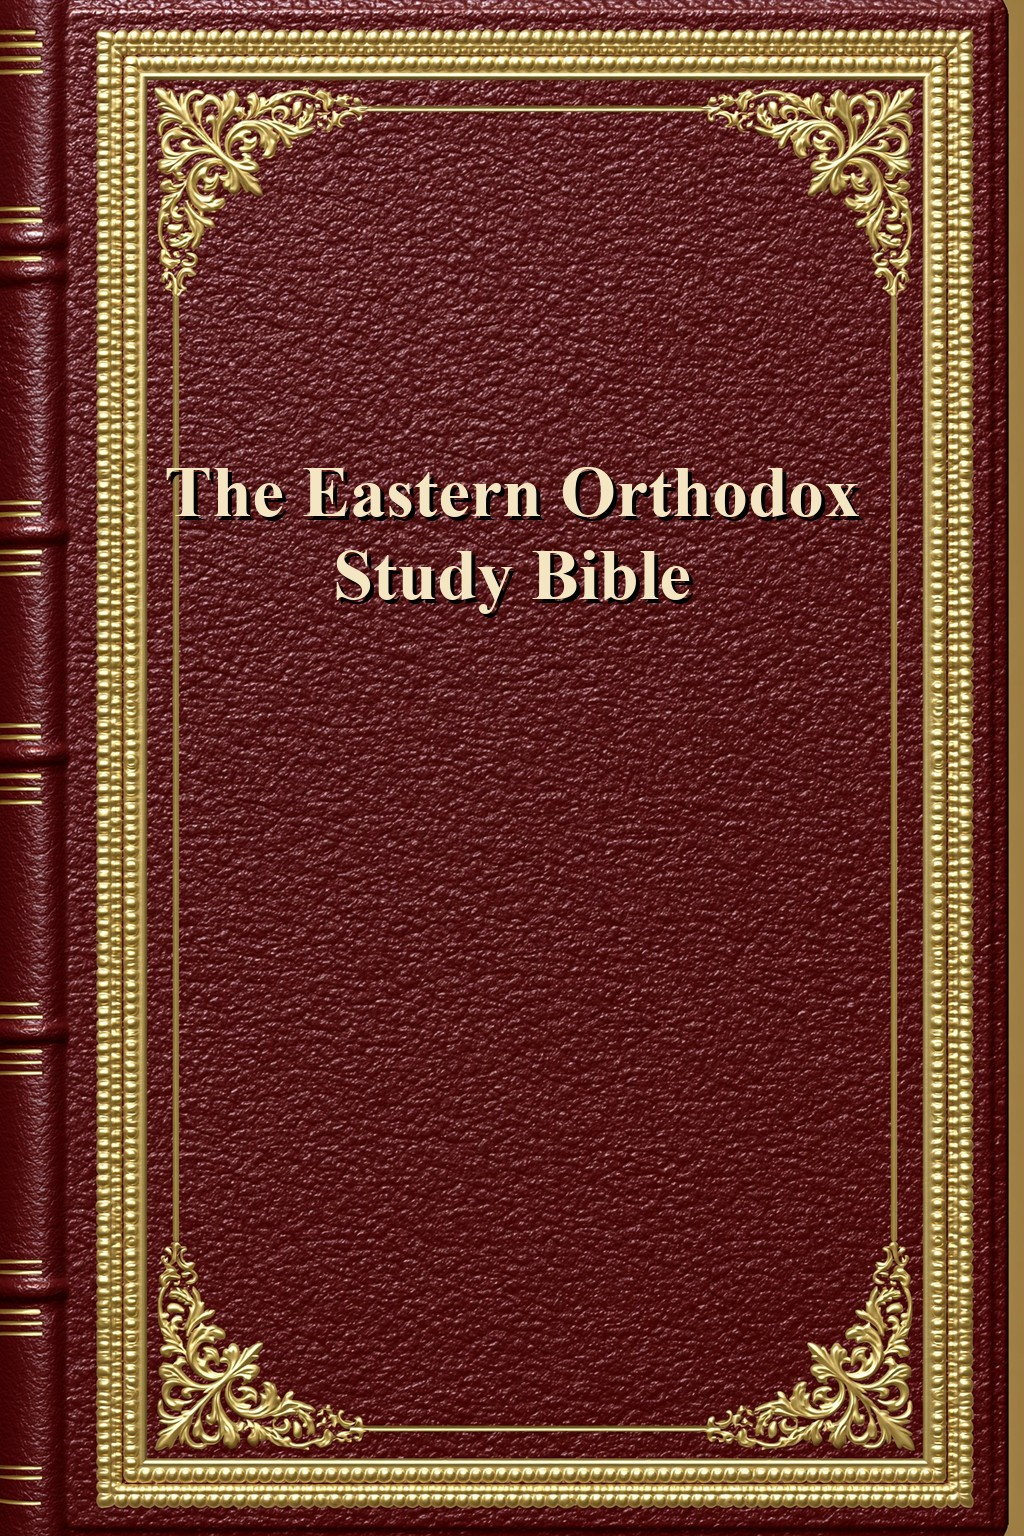
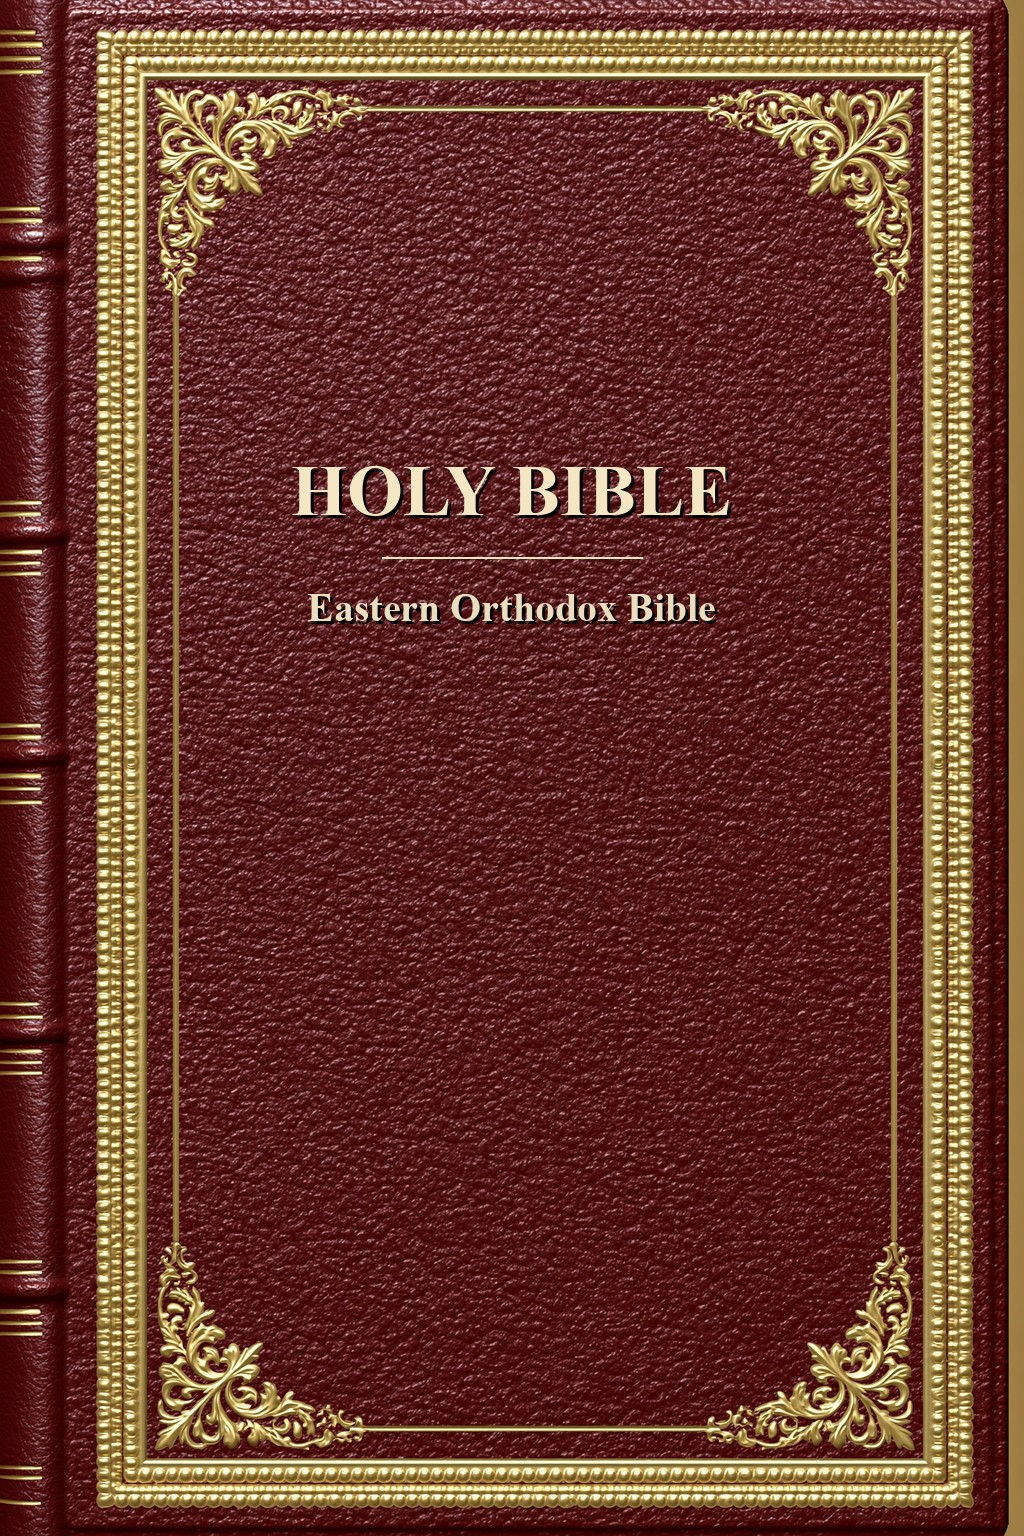
σ.2.3: editions.yaml display_name for all 9 standard editions (cover subtitles) + schema fields (display_name/cover_main_title/cover_template); regenerate 9 HOLY-BIBLE covers (deterministic, byte-stability gate green); standalone editions untouched (σ.5)

Changed region(s): [[0.1562, 0.2812, 0.8438, 0.4062]]

diff --git a/scripts/validate_schemas.py b/scripts/validate_schemas.py
@@ -168,6 +168,15 @@ EDITIONS_SPEC = RecordSpec(
         FieldSpec("canon", type=str, required=False),
         FieldSpec("title", type=str, required=False),
         FieldSpec("short_title", type=str, required=False),
+        # σ.2 (2026-06-04) — cover identity. ``display_name`` is the builder's
+        # short edition name, used as the cover subtitle beneath "HOLY BIBLE"
+        # (and the Your-Edition page heading in σ.3); ``cover_main_title``
+        # overrides the default "HOLY BIBLE" main line. Both optional / back-compat.
+        FieldSpec("display_name", type=str, required=False),
+        FieldSpec("cover_main_title", type=str, required=False),
+        # The factory cover-template stem chosen for this edition (§4.6 picker),
+        # persisted by api_apply_cover_template / api_save_edition_meta.
+        FieldSpec("cover_template", type=str, required=False),
         FieldSpec("target_audience", type=str, required=False),
         FieldSpec("notes", type=str, required=False),
         FieldSpec(
